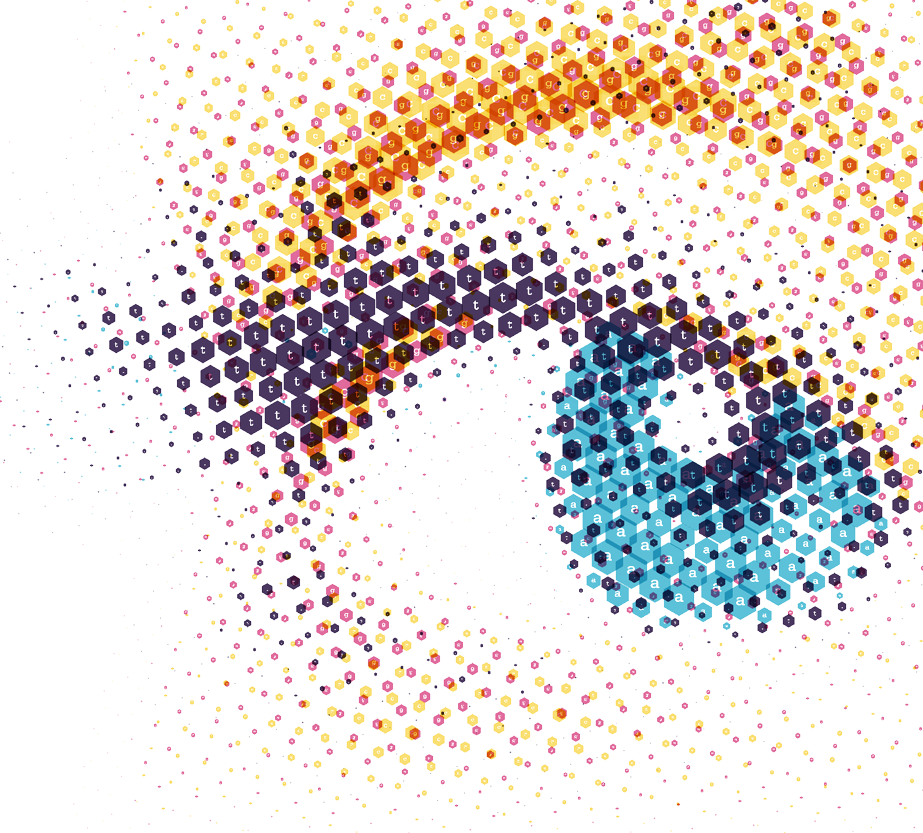
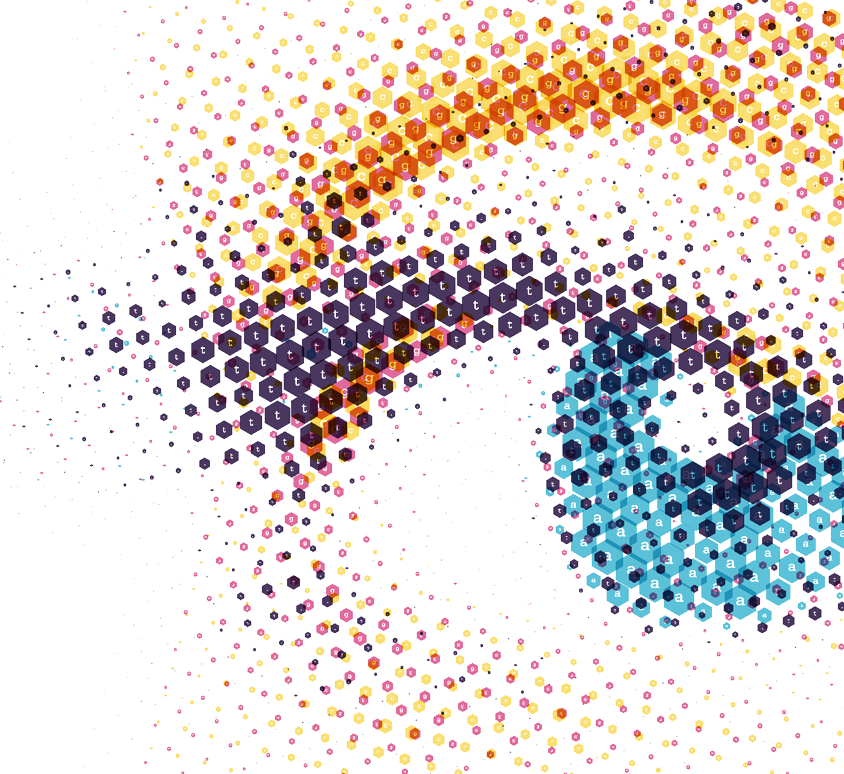
Reduced the background size

diff --git a/css/theme.css b/css/theme.css
@@ -132,7 +132,8 @@ body {
     margin-top: 5px; }
   #subscribe-frame input {
     width: 100%;
-    max-width: 400px; }
+    max-width: 500px;
+    box-shadow: none; }
     #subscribe-frame input[type="text"], #subscribe-frame input[type="email"] {
       background: transparent;
       border: solid white 2px;

diff --git a/_sass/theme.scss b/_sass/theme.scss
@@ -233,7 +233,6 @@ body {
 
 
 
-
 #ll-blurb {
 	padding: 20px 40px 80px 40px;
 	max-width: 500px;
@@ -254,6 +253,7 @@ body {
 		background-repeat: no-repeat;
 		background-position: 0% 50%; // left-middle
 		background-size: cover;
+
 
 		margin-left: 40%;
 		width: 60%;
